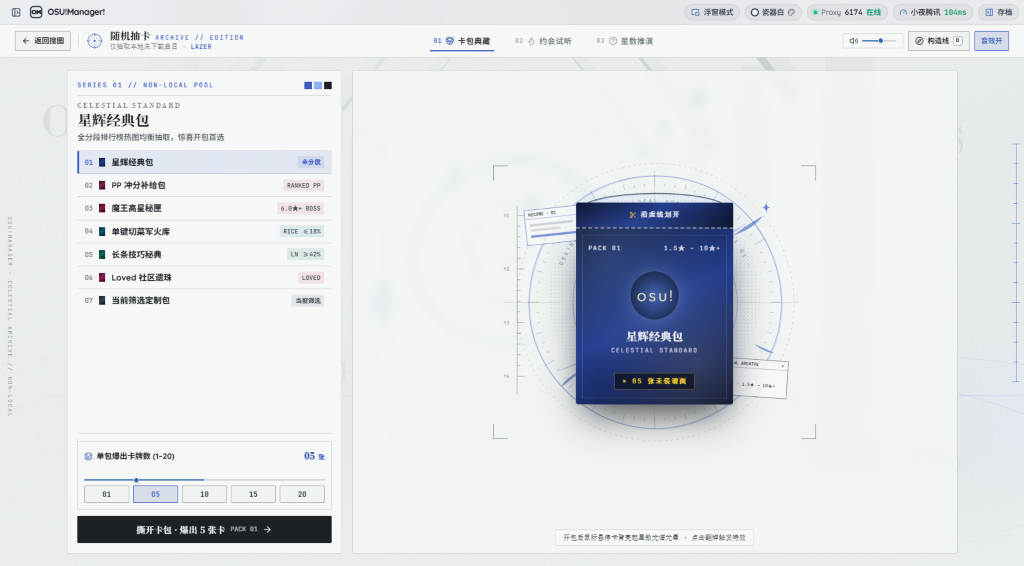
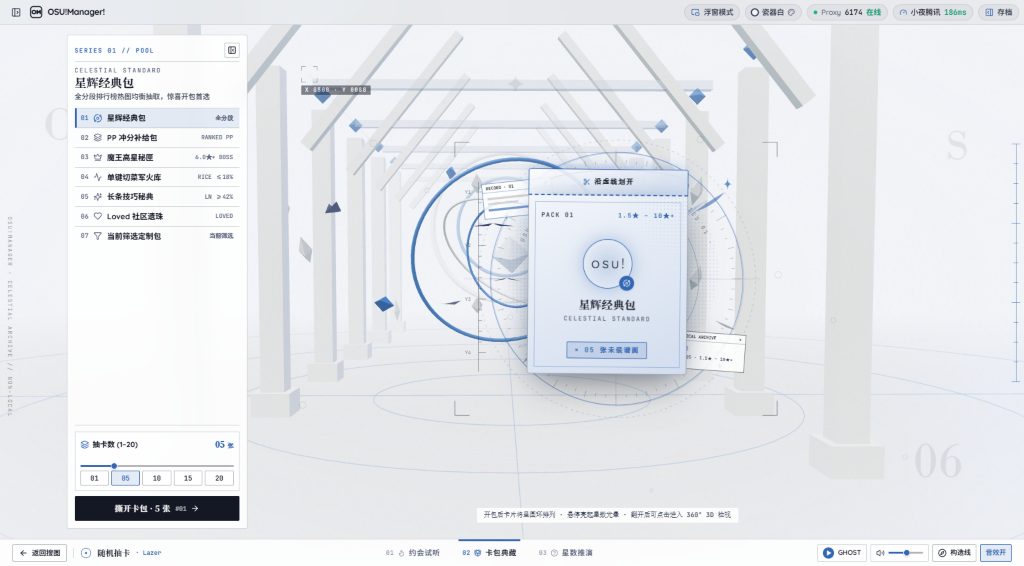
docs(gacha): update v1.14.0 README, AGENT, changelog, devlog & screenshots

diff --git a/README.md b/README.md
@@ -96,36 +96,43 @@
       <sub>Auto-detects Stable / Lazer folders &amp; online proxy ports (<code>6174</code> / Clash <code>7890</code> / v2rayN <code>10808</code>) on first launch</sub>
     </td>
     <td width="50%" align="center" valign="top">
-      <a href="docs/screenshots/10-gacha-pack.png"><img src="docs/screenshots/10-gacha-pack.png" alt="Random Card Draw — Pack Opening Mode with Paimon Starfield Back and Star Rating Glow" width="100%" /></a>
+      <a href="docs/screenshots/10-gacha-pack.png"><img src="docs/screenshots/10-gacha-pack.png" alt="Random Card Draw — 3D Circular Ring Pack Opening Mode" width="100%" /></a>
       <br />
-      <strong>10 · 随机抽卡 · 01 卡包典藏（自动收起左侧栏 + 派蒙星图卡背 + 星数光谱悬停光晕）</strong>
+      <strong>10 · 随机抽卡 · 02 卡包典藏（3D 圆环阵列 + 拖拽/滚轮旋转 + 派蒙星图卡背）</strong>
       <br />
-      <sub>Auto-collapsed sidebar, <code>1–20</code> custom cards, Paimon double-inked astrolabe back, SR aura &amp; blade flip VFX</sub>
+      <sub>3D circular card ring (`1–20` cards), drag/wheel orbit, click revealed card for 360° slab inspect</sub>
     </td>
   </tr>
   <tr>
     <td width="50%" align="center" valign="top">
-      <a href="docs/screenshots/11-gacha-dating.png"><img src="docs/screenshots/11-gacha-dating.png" alt="Random Card Draw — Dating Swipe Mode with Drafting Compass and Auto Audio Preview" width="100%" /></a>
+      <a href="docs/screenshots/11-gacha-dating.png"><img src="docs/screenshots/11-gacha-dating.png" alt="Random Card Draw — Default Dating Swipe Mode with Right-Fanned Preview Stack" width="100%" /></a>
       <br />
-      <strong>11 · 随机抽卡 · 02 约会试听（手绘草图罗盘背景 + 左右划卡 + 切牌自动试听）</strong>
+      <strong>11 · 随机抽卡 · 01 约会试听（默认模式 · 超大卡牌右向扇形叠放 + 极简底部导航栏）</strong>
       <br />
-      <sub>Live SVG drafting compass backdrop, Tinder-style drag/swipe, Undo, auto-play preview &amp; Liked Archive folio</sub>
+      <sub>Default tab, enlarged cards fanned right, collapsed Liked drawer, open Three.js canvas &amp; auto-play audio</sub>
     </td>
     <td width="50%" align="center" valign="top">
-      <a href="docs/screenshots/12-gacha-guess.png"><img src="docs/screenshots/12-gacha-guess.png" alt="Random Card Draw — Obsidian Dark English Guess SR Mode with Optical Calibration Ruler" width="100%" /></a>
+      <a href="docs/screenshots/12-gacha-guess.png"><img src="docs/screenshots/12-gacha-guess.png" alt="Random Card Draw — Obsidian Dark English Guess SR Mode with NM/HT/DT and MA Ratio" width="100%" /></a>
       <br />
-      <strong>12 · 随机抽卡 · 03 星数推演（暗色英文模式 · 光学刻度尺与误差对照标尺）</strong>
+      <strong>12 · 随机抽卡 · 03 星数推演（暗色英文 · NM/HT/DT 与黄彩比 / MA Ratio · 锁定详情）</strong>
       <br />
-      <sub>Obsidian Dark + English UI: crop-marked specimen, PP scenario clue, optical SR calibration &amp; delta ruler</sub>
+      <sub>Open Three.js backdrop, Details locked, 24 NM/HT/DT scenarios with MA Ratio, Zap streak &amp; delta ruler</sub>
     </td>
   </tr>
   <tr>
-    <td colspan="2" align="center" valign="top">
-      <a href="docs/screenshots/13-gacha-altar.png"><img src="docs/screenshots/13-gacha-altar.png" alt="Random Card Draw — Editorial Graphic Plate Sealed Pack Altar inspired by the-masses-travels" width="76%" /></a>
+    <td width="50%" align="center" valign="top">
+      <a href="docs/screenshots/13-gacha-altar.png"><img src="docs/screenshots/13-gacha-altar.png" alt="Random Card Draw — Unified Global-Theme Collector Sleeve and Collapsible Pack Dossier" width="100%" /></a>
       <br />
-      <strong>13 · 随机抽卡 · 封印祭坛与 Three.js 圣堂建筑舞台（参考 Funkierry/the-masses-travels）</strong>
+      <strong>13 · 随机抽卡 · 封印祭坛与主题同步卡包（可收起窄版侧栏 + 顺滑进度滑动条）</strong>
       <br />
-      <sub>Three.js procedural sanctum, hand-drawn overshooting construction plate, <code>B</code> Blueprint wireframe mode &amp; foil tear pack</sub>
+      <sub>Unified global-theme sleeve on open Three.js Sanctum, collapsible narrow Pack Dossier &amp; calibrated range slider</sub>
+    </td>
+    <td width="50%" align="center" valign="top">
+      <a href="docs/screenshots/14-gacha-inspector.png"><img src="docs/screenshots/14-gacha-inspector.png" alt="Random Card Draw — 360° 3D Collector Slab Inspector Modal" width="100%" /></a>
+      <br />
+      <strong>14 · 随机抽卡 · 360° 3D 立体卡片检视器（鼠标任意拖拽 360° 旋转与实体星级倒角厚边）</strong>
+      <br />
+      <sub>360° inertial drag yaw/pitch, wheel zoom, Flip <code>180° (F)</code>, Reset <code>(R)</code> &amp; star-rarity 10px bevel edges</sub>
     </td>
   </tr>
 </table>
@@ -182,13 +189,12 @@
    - 覆盖搜图选歌、详情/PP 计算器、Mania 预览器、3D Book 档案库、OSU! 音乐台、游戏内浮窗、Electron 系统托盘菜单与后端错误/镜像描述的全量中英双语体验。
    - 可在「设置 → 分区 3」或新手引导右上角切换 `简体中文` / `English`（切换立即预览，点保存持久化至 `config.json`，取消/Esc 自动回滚）；右上角测速状态与提示文案严格跟随用户实际配置的 `proxyPort`（不再固定写死 `6174`）与直连/代理模式动态显示。
 
-10. **随机抽卡工作室（自动收起主侧栏 · 参考 [`Funkierry/the-masses-travels`](https://github.com/Funkierry/the-masses-travels) 美术重构）**
-   - 在浏览模式 `Lazer` 按钮右侧提供「随机抽卡」入口，打开后**自动收起主左侧栏**呈现全宽展台；仅抽取本地未拥有的谱面（严格排除 Stable 与 Lazer 本地已存曲目）。
-   - **Three.js 圣堂建筑舞台与手绘平面图版**：内置可随明暗主题与 3 大模式镜头切换的程序化 Three.js 柱廊/星仪舞台、手绘过头笔触星环与套印错位双线（`gachaSketch`）、四角 Reticle 锁定准星、字形解码动效、定格构造脉冲转场，以及按 `B` 键或顶栏按钮实时切换的 **构造线 (Blueprint)** 线框视图。
-   - 无边框 3px 收藏级矩形卡面：正面展示铺满封面、曲名/作者、BPM、官方光谱星数、`~XXXpp` 预估 PP、一键下载与详情弹窗；背面采用原神派蒙星空斗篷动态效果、双线手绘星盘与极简细体 `osu!` 标识。
-   - **01 卡包典藏**：7 种卡包 + 3 色样条摘要与 `1–20` 自定义抽卡数（默认 `5`）；拖拽撕开封条或点击开包，悬停卡背亮起对应真实星数光谱光晕与裁切角框，翻牌触发炉石风星芒与建筑光刃爆裂特效及 Web Audio 合成音效。
-   - **02 约会试听**：后台搭载随拖拽角度联动的草图罗盘，支持左右划卡、键盘快捷键、撤回、切卡自动播放试听，以及右侧心仪列表一键/批量下载。
-   - **03 星数推演**：裁切框标本展台遮罩真实星数（`?.??★`），依据情景 PP 与光学星数刻度尺猜星数，揭晓后绘制预测/真实差值标尺并按指数误差评分（`0–1000` / `SS–D`）持久化最高分。
+10. **随机抽卡工作室（`v1.14.0` — 细长底部导航 Dock · 全局主题同色卡包 · 3D 圆环与 360° 立体检视）**
+   - 在浏览模式 `Lazer` 按钮右侧提供「随机抽卡」入口，打开后**自动收起主左侧栏与存档栏**；模式切换栏下移至纤细的**底部导航 Dock**，**默认直接进入 `01 约会试听`**（顺序为 `01 约会试听 · 02 卡包典藏 · 03 星数推演`）。所有定格构造转场动画沉底于 `z-[4]` 背景层，不再浮压界面元素。
+   - **Three.js 圣堂通透画布与全主题配色联动**：三大模式主舞台全部去除厚重遮罩面板，让实时响应全球 `--t-canvas` 与强调色 `--t-osu` 的 Three.js 圣堂建筑舞台完整透出；支持 `B` 键快速切换构造线框。
+   - **01 约会试听（默认模式）**：放大卡牌展示尺寸并在**右侧下面扇形叠放预览下一张卡片**，支持左右滑卡、快捷键、撤回与切卡自动试听；右侧「心动曲库」改为默认收起的折叠抽屉。
+   - **02 卡包典藏与 360° 3D 检视**：左侧卡包清单更窄且支持自由收起/展开，抽卡数量滑条 (`1–20`) 填充轨道精确跟随滑块；7 种收藏卡包统一映射当前全局主题色；撕开卡包后所有卡牌按 **3D 椭圆圆环阵列** 分布（支持拖拽空白处、滚轮或左右箭头旋转圆环），悬停卡背亮起对应真实星数光谱光晕与裁切角框，点击任意已翻开正面卡片即可进入 **360° 3D 立体检视弹窗**（鼠标惯性 360° 自由旋转、滚轮缩放、10px 星级倒角厚边、`F` 翻转至派蒙星空卡背、`R` 复位）。
+   - **03 星数推演**：移除卡片 `详情` 入口严格防止窥见真实星数，扩充 24 种严格基于 `NM (1.0x)` / `HT (0.75x)` / `DT (1.5x)` 倍率与**黄彩比（`MA Ratio`）**/ Miss / `EZ` / `Classic` 组合的高信息量情景线索，并将连续精准指标图标焕新为干净的闪电连击徽标（移除火苗 Emoji）。
 
 ### 快速开始
 
@@ -264,13 +270,12 @@ No osu! login or session cookie is required. It brings together multi-mirror bea
 - **Full ZH / EN Bilingual Switcher & Dynamic Proxy Diagnostics**
   - Complete Simplified Chinese & English localization across Browse, Beatmap Detail & PP Calculator, Mania Previewer, 3D Book Archive, OSU! AUDIO Music Station, Acrylic Overlay, Electron Tray/Hotkeys, and backend mirror/status responses.
   - Switch live via **Settings → Section 3 (`简体中文 | English`)** or the onboarding header pill (persisted in `config.json`, safely rolls back on Cancel/Esc). Top-bar latency checks and toast notifications dynamically reflect your configured `proxyPort` or `Direct` mode.
-- **Random Card Draw Studio (`v1.13.0` — Redesigned after [`Funkierry/the-masses-travels`](https://github.com/Funkierry/the-masses-travels))**
-  - Accessible directly beside the `Lazer` view button in Browse mode; **automatically collapses the left sidebar** on launch and exclusively draws unowned beatmapsets not present in Stable or Lazer local libraries.
-  - **Architectural & Graphic Engine**: Features a procedural **Three.js Sanctum stage** (`GachaSanctumWorld`), dual mineral-paper Light / nocturnal-obsidian Dark palettes, overshooting hand-drawn SVG rings & misregistered double-ink lines (`gachaSketch`), hovering Reticle corner brackets, scramble title decoding, stop-motion burst transitions, and a live **`B` Blueprint wireframe mode**.
-  - **Borderless Collector Cards**: Sharp borderless cover front (`title`, `artist/mapper`, `BPM`, official-spectrum `SR`, `~XXXpp`, audio preview, Download, Detail modal) paired with an animated Paimon-cloak cosmic starfield & hand-drawn astrolabe `osu!` back.
-  - **01 Pack Opening**: 7 themed packs with editorial color swatches, `1–20` custom count (default `5`), multi-layered Graphic Plate altar, tear-to-open foil pack, Star-Rating hover aura + crop brackets, and Hearthstone + light-blade flip burst VFX with optional Web Audio SFX.
-  - **02 Dating Swipe**: Live SVG drafting compass backdrop, drag/swipe or hotkeys (`←/→/Z/Space`), **auto-playing preview audio**, and Liked Archive batch download tray.
-  - **03 Guess SR**: Crop-framed masked specimen (`?.??★`), randomized PP scenario clue, graduated optical SR calibration slider, `0–1000` (`SS–D`) scoring, and visual guess-vs-actual delta ruler.
+- **Random Card Draw Studio (`v1.14.0` — Slim Bottom Dock, Theme-Synced Sleeves, 3D Ring & 360° Inspector)**
+  - Accessible beside the `Lazer` view button in Browse mode; **automatically collapses both sidebars** on launch and exclusively draws non-local beatmapsets.
+  - **Slim Bottom Dock & Open Three.js Stage**: Navigation sits in a sleek bottom dock defaulting directly to **`01 Dating Swipe`** (`01 Dating · 02 Packs · 03 Guess`). Frosted enclosing veils are stripped so the live Three.js Sanctum backdrop (synced dynamically to `--t-canvas` & `--t-osu`), `B` Blueprint wireframe toggle, and background-layered (`z-[4]`) transitions remain crystal clear.
+  - **01 Dating Swipe (Default)**: Enlarged rectangular cards (`~405×600px`) fan the next two upcoming cards visibly to the right underneath the active card, with a **collapsible Liked Archive drawer collapsed by default** and instant auto-playing audio previews.
+  - **02 Pack Opening & 360° 3D Slab Inspector**: Features a narrower collapsible Pack Dossier rail, synced `--fill` card count range slider (`1–20`), unified global-theme collector pack sleeves, and an interactive **3D circular card ring** (orbit by drag, wheel, or buttons) with star-rarity hover glows and Paimon starfield card backs. Clicking any revealed card launches the full-screen **360° 3D Collector Slab Inspector** with inertial mouse-drag 360° yaw/pitch rotation, zoom, 10px rarity bevel edges, `Flip 180° (F)`, and `Reset (R)`.
+  - **03 Guess SR**: Removes the card `Details` modal button so stars stay hidden, provides 24 richer randomized scenarios strictly using **`NM (1.0x)` / `HT (0.75x)` / `DT (1.5x)`** rates with **MA Ratio** (`黄彩比`), misses, and mod clues, uses a crisp Zap streak counter without fire emojis, and renders over the open Three.js canvas.
 
 ### Quick Start
 

diff --git a/AGENT.md b/AGENT.md
@@ -125,20 +125,21 @@
 | `src/components/DownloadDrawer.tsx` | 下载任务队列（含完成态预览/再加载按钮）与 Lazer 待导入队列批量导入抽屉 |
 | `src/components/FastBatchModal.tsx` | 极简纯文本「快速批量下载」工作台（目标数量 1–500、IPv6/直连分流、多镜像高并发与实时传输遥测） |
 | `src/components/LibrarySyncModal.tsx` | 双端曲库比对与 Stable→Lazer 零流量同步弹窗 |
-| `src/components/SettingsModal.tsx` | 客户端路径浏览、动态代理/IPv6 网络协议与镜像测速、`简体中文 / English` 界面语言切换（`segmented-auto` 防截断，即时预览/取消回滚/保存持久化）、8 主题/10 预设+自由取色强调色、界面字体大小缩放 (`85%–125%`，默认 `120%`)、自定义背景图与透明度 (`4%–100%`，默认 `75%`)、动态开关、浮窗热键、可选官方 Cookie 与「关于与帮助」（`v1.13.0` 版本号、GitHub 开源地址、重新观看新手引导）弹窗 |
+| `src/components/SettingsModal.tsx` | 客户端路径浏览、动态代理/IPv6 网络协议与镜像测速、`简体中文 / English` 界面语言切换（`segmented-auto` 防截断，即时预览/取消回滚/保存持久化）、8 主题/10 预设+自由取色强调色、界面字体大小缩放 (`85%–125%`，默认 `120%`)、自定义背景图与透明度 (`4%–100%`，默认 `75%`)、动态开关、浮窗热键、可选官方 Cookie 与「关于与帮助」（`v1.14.0` 版本号、GitHub 开源地址、重新观看新手引导）弹窗 |
 | `src/components/OnboardingModal.tsx` | 首次安装 6 步交互式环境配置与新手引导向导（右上角含 `中文 / EN` 快速切换、调用 `/api/config/detect-env` 探测多盘符客户端路径与本机代理端口，支持代理模式/端口预设、下载策略、实时主题/字号预览、配置摘要保存及防输入框箭头误触） |
 | `src/components/SelectField.tsx` | 统一下拉封装（支持 `<optgroup>` 嵌套匹配，解决 Chromium 原生箭头重叠问题） |
 | `src/components/gacha/gachaSketch.ts` | 参考 `Funkierry/the-masses-travels` 移植的确定性手绘 SVG 几何原语（过头抖动星环 `ring`、拱曲延展标尺 `rule`、毛笔 `brush`、光刃 `blade`、裁切角 `crops` 与星座连接） |
-| `src/components/gacha/GachaSanctumWorld.ts` | Three.js 程序化圣堂建筑舞台控制器（对称拱柱廊、玫瑰窗、悬浮旋转星仪、光刃碎片与飞羽、3 模式镜头运镜、`Blueprint` 线框模式与开包/高星炸裂脉冲） |
-| `src/components/gacha/GachaAtmosphere.tsx` | `the-masses-travels` 全屏氛围层（Three.js 挂载、矿石纸感/夜色面纱、纸张噪点、构造网格、指针连线点阵、左侧竖排注记与右侧标尺、四角 Reticle 框、3 帧定格构造脉冲与 `<ScrambleText>` 解码） |
-| `src/components/gacha/GachaPackPlate.tsx` | 封印祭坛多层视差手绘图版（半调网点圆盘、倾斜光环、圆环铭文、`Y1–Y6` 标尺、迷你拼贴 UI 框与构造线尺寸标注） |
-| `src/components/gacha/GachaStudio.tsx` | 随机抽卡工作室总控界面（`01 卡包典藏 / 02 约会试听 / 03 星数推演` 章节切换、`B` 构造线热键、共享音频试听控制与 Three.js/定格爆发调度） |
-| `src/components/gacha/GachaPackMode.tsx` | 卡包典藏模式（`SERIES 01–07` 档案摘要+三色样条、`1–20` 抽卡数刻度、`GachaPackPlate` 撕包祭坛、`Reveal All` / `Download All` 与炉石+光刃爆裂网格） |
-| `src/components/gacha/GachaDatingMode.tsx` | 约会试听模式（实时手绘旋转罗盘与矢量角度读数、左右滑卡与快捷键、撤回、切卡自动试听、右侧心仪档案库批量下载） |
-| `src/components/gacha/GachaGuessMode.tsx` | 星数推演模式（裁切框标本、Ranked 情景 PP 线索、光学光谱校准尺、指数评分、`ScrambleText` 得分、预测/真实误差对比标尺与最高分持久化） |
-| `src/components/gacha/BeatmapGachaCard.tsx` | 无边框 `3px` 收藏级 3D 正反谱面卡（悬停卡背亮起真实星数光谱光晕与裁切角；翻牌触发炉石光环+星芒+旋转手绘光刃；正面封面/BPM/星数/PP/下载/详情） |
+| `src/components/gacha/GachaSanctumWorld.ts` | Three.js 程序化圣堂建筑舞台控制器（响应全局 `--t-canvas` / `--t-osu` 动态换色、对称拱柱廊、玫瑰窗、悬浮旋转星仪、光刃碎片与飞羽、3 模式镜头运镜、`Blueprint` 线框模式与炸裂脉冲） |
+| `src/components/gacha/GachaAtmosphere.tsx` | 全屏氛围层（Three.js 挂载、全局主题色同步、轻量透明面纱、纸张噪点、构造网格、指针连线点阵、左侧竖排注记与右侧标尺、脱离目标即时复位且避开底栏的 Reticle 准星、`z-[4]` 底层定格构造脉冲与 `<ScrambleText>` 解码） |
+| `src/components/gacha/GachaPackPlate.tsx` | 封印祭坛多层视差手绘图版（统一随 `--ga-cobalt` / `--ga-ink` 全局主题调色盘变色的半调网点圆盘、倾斜光环、圆环铭文与 `Y1–Y6` 标尺） |
+| `src/components/gacha/GachaStudio.tsx` | 随机抽卡工作室总控界面（纤细底部导航栏 `01 约会试听 / 02 卡包典藏 / 03 星数推演`、默认 `dating`、同步 `--t-osu`/`--t-canvas`、`B` 构造线热键、音量滑条 `--fill` 与猜星详情隔离） |
+| `src/components/gacha/GachaPackMode.tsx` | 卡包典藏模式（更窄且可收起/展开的 `SERIES 01–07` 档案侧栏、`1–20` `--fill` 跟踪滑动条、通透开包祭坛、统一主题色收藏卡包、`1–20` 张 3D 椭圆圆环阵列旋转舞台与 360° 检视入口） |
+| `src/components/gacha/GachaCardInspectorModal.tsx` | **新增**：Portal 挂载至 `document.body` (`z-[48]`) 的 360° 3D 立体卡片检视弹窗（`data-dark="true"` 独立暗色画廊背板、鼠标惯性 360° yaw/pitch 拖拽、滚轮缩放、10px 星级发光倒角厚边、`F` 翻转、`R` 复位、`←/→` 切卡） |
+| `src/components/gacha/GachaDatingMode.tsx` | 约会试听模式（默认模式：通透无遮罩舞台、放大卡牌尺寸、右侧下方扇形叠放预告下两张卡片、默认收起的可折叠右侧「心动曲库」抽屉与切卡自动试听） |
+| `src/components/gacha/GachaGuessMode.tsx` | 星数推演模式（移除卡片/得分卡 `详情` 入口、通透无面板遮罩舞台、Zap 图标连击计数、24 种 `NM/HT/DT` + 黄彩比 `MA Ratio` / Miss / Mod 情景与预测误差标尺） |
+| `src/components/gacha/BeatmapGachaCard.tsx` | 无边框 `3px` 收藏级 3D 正反谱面卡（悬停卡背星光光晕与裁切角、翻牌粒子+光刃特效、支持可选 `onInspect` 360° 检视触发器与统一主题主按钮色） |
 | `src/components/gacha/PaimonStarfieldBack.tsx` | 派蒙星空斗篷卡背（纯 GPU 合成星云/闪烁星辰叠加 `gachaSketch` 双重套印手绘星盘与极简细体 `osu!` / `CELESTIAL DECK` 标识） |
-| `src/components/gacha/gachaUtils.ts` | 卡包配置（含三色 `swatches` 与 `editorialSub`）、星数光谱光晕分级、代表难度/PP 摘要、猜星情景生成与评分公式工具 |
+| `src/components/gacha/gachaUtils.ts` | 卡包配置（`GachaPackSigil` 徽记、全包统一主题映射）、星数光谱光晕分级、24 种严格 `NM/HT/DT` + 黄彩比 `maRatioLabel` 猜星情景与指数评分公式 |
 | `src/components/gacha/gachaSound.ts` | Web Audio API 合成开包撕裂、悬停律动、分阶翻牌爆裂、滑卡与猜星揭晓音效 |
 
 ---

diff --git a/docs/DEVLOG.md b/docs/DEVLOG.md
@@ -4,6 +4,34 @@
 
 ---
 
+## Session 24 — 随机抽卡工作室 13 项 UX/美学全面升级、3D 圆环与 360° 立体检视 (`v1.14.0`)
+
+- **日期**：2026-11-26
+- **对话 ID**：`09e49c4e-3701-4043-82c7-d9fba139a0f4`
+- **版本**：`v1.14.0`
+- **关联代码提交**：`5242f04`
+- **本次需求（13 项优化）**：
+  1. 导航栏移至底部并更纤细，默认模式设为约会试听；
+  2. 卡包配色统一跟随全局主题色与强调色、风格一致；
+  3. 卡包左侧栏更窄并支持收起，修复抽卡数滑动条填充轨道不随滑块移动问题；
+  4. 开包后所有卡牌呈 **3D 椭圆圆环阵列** 排布，翻开后点击可进入 **360° 3D 立体检视**（鼠标拖拽任意旋转查看正反面与实体厚边）；
+  5. 去除卡包右侧开包舞台大块磨砂蒙层；
+  6. 约会模式放大卡牌尺寸（更宽更修长）；
+  7. 约会模式在右侧下面可见扇形叠放下一张预览卡；
+  8. 去除约会模式舞台遮罩层，完整展现 Three.js 背景；
+  9. 约会模式右侧「心动曲库」支持收起且默认收起；
+  10. 猜星模式禁用详情弹窗防泄星，扩充基于 **NM/HT/DT** 倍率与 **黄彩比 (`MA Ratio`)** 的情景线索；
+  11. 去除猜星模式画布与右侧控制台大块磨砂蒙层；
+  12. 精准连击指标移除 `🔥` Emoji；
+  13. 修复切换模式入场构造动画浮压界面元素及按钮卸载后准星标签残留问题。
+- **关键视觉复核与根因修复**：
+  - **360° 检视弹窗层叠遮挡（`inspector_v3 -> inspector_v4 -> inspector_v5`）**：初版弹窗位于 `<main z-10>` 内 `z-50`，被顶栏 `z-40`、底栏 `z-20` 与圆环卡片 `zIndex: 10..90` 反向压盖；改为 `createPortal(..., document.body)` 置于 `z-[48]`（严格高于主界面 `z-10`/底栏 `z-20`/顶栏 `z-40`，且低于 `BeatmapDetailModal` `.modal-backdrop z-50`）并对圆环舞台容器施加 `isolation: isolate`。同时因 `.gacha-atelier { background-color: var(--ga-bg) }` 优先级高于 Tailwind `@layer utilities`，在弹窗根容器显式强制 `data-dark="true"` 与内联 `rgba(7, 10, 18, 0.90)`、`#ffffff`，确保浅色「瓷器白」主题下依然保持清晰暗色画廊背景与高对比 HUD。
+  - **Reticle 残留与全开延迟**：在 `GachaAtmosphere.tsx` 的 rAF 循环内检测 `!targetEl.isConnected` 时立即清零锁框状态并避开 `footer`；在 `GachaPackMode.tsx` 将 `handleRevealAll` 错峰间隔缩紧为 `Math.min(80, Math.round(520 / N))`，避免 5 张牌长时间停在半翻状态。
+- **验证结果**：
+  - `npm run typecheck`、`npm run build`、Gacha 模块双语 AST 扫描（`13` 文件 `0` 处未受控中文）均 0 报错通过；
+  - 独立隔离服务端 (`http://127.0.0.1:3728`，临时 `OSU_DL_DATA_DIR`) 全量浏览器验收：`dating_v3` / `altar_v3` / `pack_ring_settled` / `inspector_v5` (`YAW 000° -> 050° -> 184° -> 280°` 拖拽与 `F`/`R`/`Esc`) / `guess_dark_en_v4` 在 `1440×900` 与 `1280×720` 下 `0` 报错、滑动条 `--fill` 实测 `21% / 58% / 100%`；
+  - `npm run electron:pack` 生成 `release/win-unpacked/osu-manager.exe`（`FileVersion=1.14.0`），`:3729` 隔离冒烟实测 `/api/health => 200`、`/ => 200`、`POST /api/gacha/draw => 5 cards`，测试结束后端口 `0` 残留、`data/config.json` 保持 `898` 字节原样。
+
 ## Session 23 — 打开随机抽卡自动收起左侧栏、参考 `Funkierry/the-masses-travels` 重构抽卡美术/UI/动效与视觉精修 (`v1.13.0`)
 
 - **日期**：2026-11-26

diff --git a/CHANGELOG.md b/CHANGELOG.md
@@ -4,6 +4,18 @@ All notable changes to **OSU!Manager! (`osu-4k-dual-downloader`)** will be docum
 
 The format is based on [Keep a Changelog](https://keepachangelog.com/en/1.1.0/).
 
+## [1.14.0] - 2026-11-26
+
+### Added & Changed
+- **随机抽卡工作室 13 项美学、排版、3D 圆环与 360° 立体检视全面升级**：
+  - **纤细底部导航 Dock 与约会模式默认直达**（`src/components/gacha/GachaStudio.tsx`）：将顶部模式切换条重构为更纤细的底部导航 Dock，默认模式设为 `01 约会试听`（顺序 `01 约会试听 · 02 卡包典藏 · 03 星数推演`）；实时读取 `--t-canvas` 与 `--t-osu` 同步到 Three.js 圣堂舞台与滑条填充 (`--fill`)。
+  - **全主题统一卡包与可收起窄版卡包档案栏**（`src/components/gacha/GachaPackMode.tsx`, `GachaPackPlate.tsx`, `gachaUtils.ts`）：统一 `SERIES 01–07` 卡包封面、光环、半调圆盘与图版点缀至全局主题主色（保留 `GachaPackSigil` 独立符号），左侧档案栏收窄至 `272–292px` 并支持折叠/展开；修复 `--fill` 滑动条填充轨道随滑块 (`1–20`) 实时跟踪。
+  - **通透 Three.js 圣堂舞台、3D 椭圆圆环阵列与 360° 3D 立体检视器**（`src/components/gacha/GachaPackMode.tsx`, `GachaCardInspectorModal.tsx`, `BeatmapGachaCard.tsx`, `src/index.css`）：去除开包与封印祭坛整块磨砂遮罩直接透出 Three.js 舞台；翻包舞台升级为支持拖拽空白处、滚轮与左右箭头旋转的 `1–20` 张 **3D 椭圆圆环阵列**（`isolate` 隔离层叠）；新增 Portal 挂载 (`document.body` `z-[48]`, `data-dark="true"` 独立暗色画廊背板) 的 **360° 3D 立体卡片检视弹窗**，支持鼠标惯性 360° yaw/pitch 拖拽、滚轮缩放、`10px` 星级倒角厚边、`F` 翻转至派蒙星空卡背、`R` 复位与 `←/→` 切卡。
+  - **约会模式扩幅扇形叠牌与折叠心动曲库**（`src/components/gacha/GachaDatingMode.tsx`）：去除桌面舞台遮罩，放大卡片至 `~405×600px`，并在右侧下方可见扇形叠放预览接下来两张卡片（含 `NEXT` 标识）；右侧「心动曲库」改为默认收起的滑出抽屉。
+  - **猜星模式锁定详情、扩充 NM/HT/DT + 黄彩比情景与连击图标焕新**（`src/components/gacha/GachaGuessMode.tsx`, `gachaUtils.ts`）：禁止打开 `BeatmapDetailModal` 详情弹窗防止泄星，扩充 24 组严格采用 `NM (1.0x)` / `HT (0.75x)` / `DT (1.5x)` 倍率（移除 `1.2x`）并展示**黄彩比 (`MA Ratio`)**、Miss 与 Mod 组合的真实情景，去除左右面板遮罩并移除 `🔥` 改用 `Zap` 闪电连击徽标。
+  - **修复定格转场压盖与脱离按钮准星残留**（`src/components/gacha/GachaAtmosphere.tsx`, `src/index.css`）：移除 `.ga-fx-veil` 闪烁蒙层并将转场爆发沉底至 `z-[4]` 背景层；Reticle 在悬浮按钮卸载或进入 `footer` 时立即复位脱离目标。
+- 版本号同步更新至 `v1.14.0`（`package.json`, `src/constants.ts`, `AGENT.md`, `README.md`），归档 `10..14` 五张实机截图（含新增 [14-gacha-inspector.png](docs/screenshots/14-gacha-inspector.png)），完成双主题/双语/双分辨率浏览验收、360° 拖拽实测与 `npm run electron:pack`（`:3729` `osu-manager.exe` 冒烟 `Health 200` / `GET / => 200` / `POST /api/gacha/draw => 5 cards`）。
+
 ## [1.13.0] - 2026-11-26
 
 ### Added & Changed
